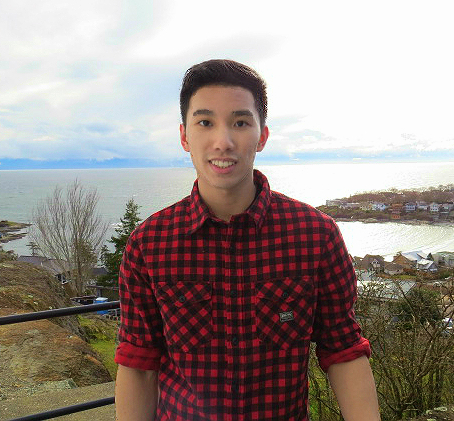
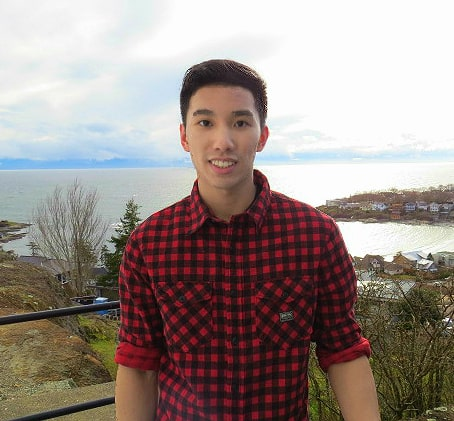
compress images, small html edits, add small css styles

diff --git a/trevorlee.ca/src/index.html b/trevorlee.ca/src/index.html
@@ -14,9 +14,9 @@
     <link rel="stylesheet" href="https://use.fontawesome.com/releases/v5.3.1/css/all.css" integrity="sha384-mzrmE5qonljUremFsqc01SB46JvROS7bZs3IO2EmfFsd15uHvIt+Y8vEf7N7fWAU" crossorigin="anonymous">
     <!-- ScrollReveal.js-->
     <script src="js/scrollreveal.min.js"></script>
-    <title>Trevor Lee | Software Engineer &amp; UX/UI Designer</title>
+    <title>Trevor Lee | Full Stack Developer</title>
     <meta name="description" content="Trevor Lee. I&#039;m passionate about innovative technology and using it to make a positive difference in the world. I graduated from the University of Victoria (Uvic) with a Bachelor of Software Engineering. My experience stems from working at some amazing companies/organizations like Referral SaaSquatch as a Software Developer, Uvic's High Energy Physics Research Computing Group as a Cloud Developer, Latitude Geographics as an IT Support Analyst, and IBM Canada Ltd as a Software Test Specialist. From my education and work experience, i&#039;ve developed skills in Java, JavaScript, C, Python, SQL, Bootstrap 4, AWS, iOS/Android, just to name a few. "/>
-    <meta property="og:title" content="Trevor Lee | Software Engineer &amp UX/UI Designer" />
+    <meta property="og:title" content="Trevor Lee | Full Stack Developer" />
     <meta property="og:description" content="Trevor Lee. I&#039;m passionate about innovative technology and using it to make a positive difference in the world." />
     <meta property="og:url" content="https://trevorlee.ca/" />
     <meta property="og:site_name" content="Trevor Lee" />
@@ -56,8 +56,8 @@
                 <div class="row">
                     <div class=" col-xs-12 col-sm-12 col-md-5 offset-md-7 col-lg-5 offset-lg-7 col-xl-5 offset-xl-7 align-bottom my-col">
                         <h1>Hi,</h1>
-                        <h1>My name is Trevor.</h1>
-                        <h4>Software Engineer | UX/UI Designer</h4>
+                        <h1>my name is Trevor.</h1>
+                        <h4>- Full Stack Developer -</h4>
                     </div> 
                 </div>
             </div>
@@ -73,7 +73,7 @@
                 </div>
                 <div class="col-md-6 my-col text-center">
                     <div class = "add-margin">
-                        <p class="padding">I am a software engineer that is passionate about building innovative technology with the latest tools. My goal is to create exceptional solutions through teamwork, perseverance, and continuous improvement. </p>
+                        <p class="padding">I am a full stack developer that is passionate about building innovative technology with the latest tools. My goal is to create exceptional solutions through teamwork, perseverance, and continuous improvement. </p>
                         <h3 class="padding">Education</h3>
                         <p><img class="icon" src="images/education_icon.png">Bachelor of Software Engineering - University of Victoria</p>
                     </div>
@@ -203,6 +203,7 @@
     <section id="Contact" class="contact">   
         <div class="container padding-bottom my-container">
             <h2>Let's build something amazing.</h2>
+            <h3>Contact</h3>
             <ul class="list-social">
                 <li class="social-google-plus hvr-float-shadow">
                     <a href="mailto:trevorlee.email@gmail.com"><i class="fas fa-envelope"></i></a>
@@ -221,6 +222,7 @@
     <footer>
         <div class="container">
             <p>Trevor Lee</p>
+            <p>Powered by AWS</p>
         </div>
      </footer>
 

diff --git a/trevorlee.ca/src/css/styles.css b/trevorlee.ca/src/css/styles.css
@@ -4528,25 +4528,31 @@ p {
    * Used for the contact icons
   */ }
   .contact h2 {
-    font-size: 2em; }
-  .contact ul.list-social li {
-    display: inline-block;
-    padding-right: 5px;
-    padding-left: 5px; }
-    .contact ul.list-social li a {
-      display: block;
-      height: 80px;
-      width: 80px;
-      line-height: 80px;
-      font-size: 40px;
-      border-radius: 100%;
-      color: #fff; }
-    .contact ul.list-social li.social-linkedin a {
-      background-color: #0077B5; }
-    .contact ul.list-social li.social-github a {
-      background-color: #6e5494; }
-    .contact ul.list-social li.social-google-plus a {
-      background-color: #dd4b39; }
+    font-size: 2em;
+    padding-bottom: 35px; }
+  .contact h3 {
+    padding-bottom: 2vh;
+    font-size: 1.5em; }
+  .contact ul.list-social {
+    padding-right: 3.75%; }
+    .contact ul.list-social li {
+      display: inline-block;
+      padding-right: 5px;
+      padding-left: 5px; }
+      .contact ul.list-social li a {
+        display: block;
+        height: 80px;
+        width: 80px;
+        line-height: 80px;
+        font-size: 40px;
+        border-radius: 100%;
+        color: #fff; }
+      .contact ul.list-social li.social-linkedin a {
+        background-color: #0077B5; }
+      .contact ul.list-social li.social-github a {
+        background-color: #6e5494; }
+      .contact ul.list-social li.social-google-plus a {
+        background-color: #dd4b39; }
   .contact .hvr-float-shadow {
     display: inline-block;
     vertical-align: middle;

diff --git a/trevorlee.ca/src/scss/components/_contact.scss b/trevorlee.ca/src/scss/components/_contact.scss
@@ -6,9 +6,17 @@
  
     h2 {
         font-size: 2em;
+        padding-bottom: 35px;
+    }
+    
+    h3 {
+        padding-bottom: 2vh;
+        font-size: 1.5em;
+        
     }
 
     ul.list-social {
+        padding-right: 3.75%; 
         li {
             display: inline-block;
             padding-right: 5px;
